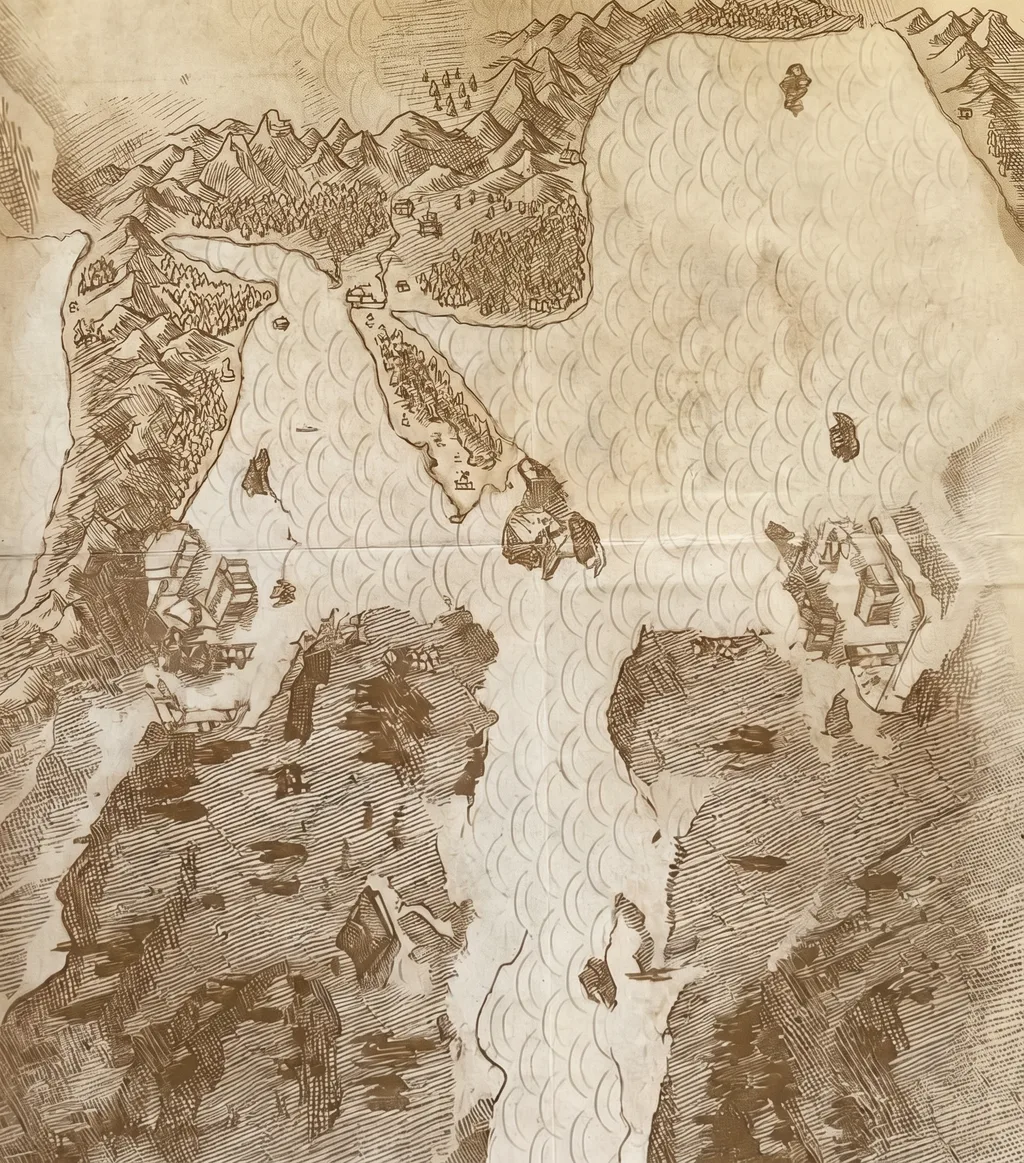
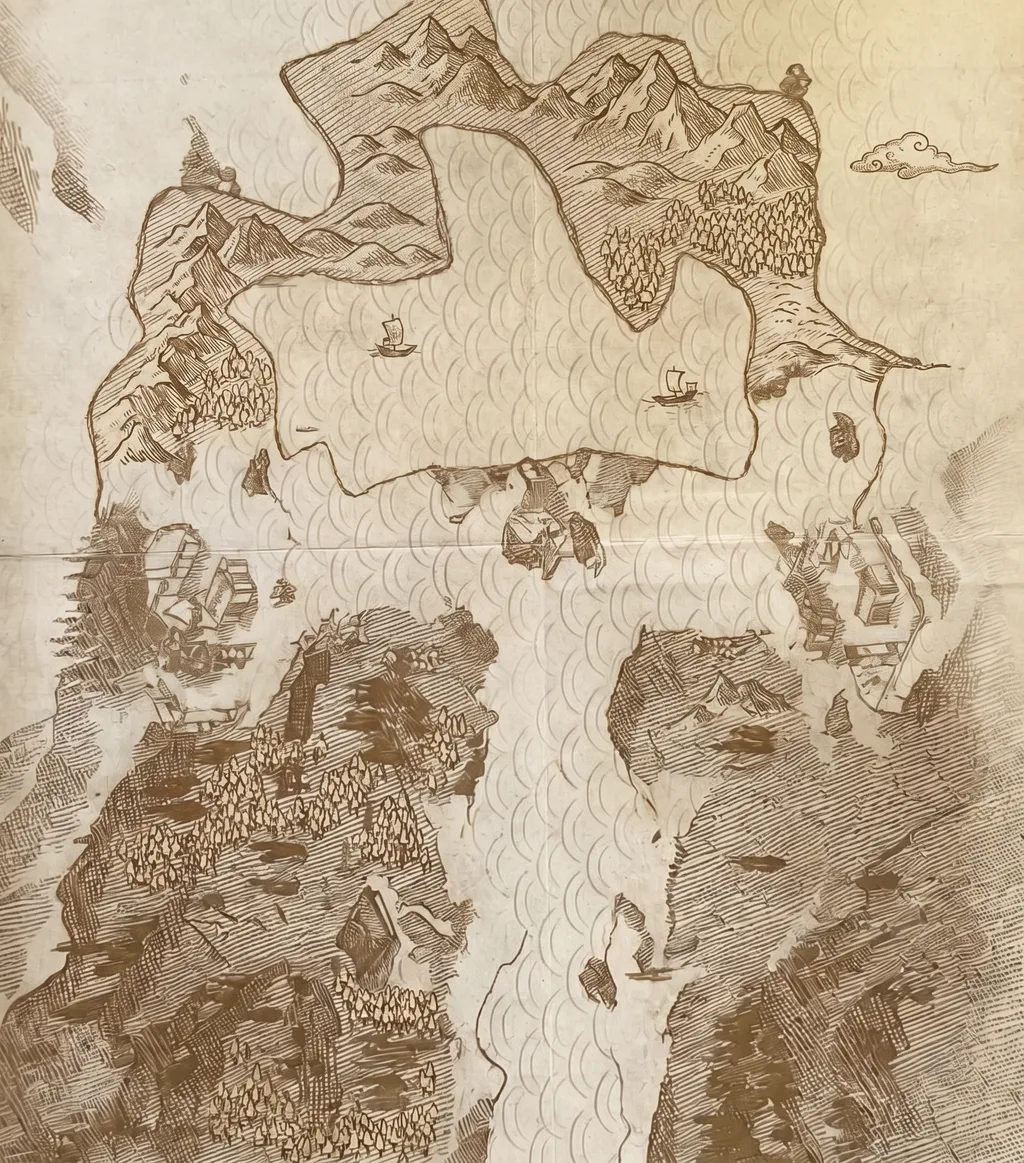
feat(terrain): commit land/sea control + fix domain-warp striping (#50)
* feat(terrain): commit land/sea control + fix domain-warp striping

Adds a fal-free `gen:map-control <mapId>` CLI that renders the deterministic
flat green/blue land-sea control image to a committed asset, so it is readily
available + regenerable without spending fal credits. Ships rivers-control.png.

Fixes a striping bug: sharp's `blur` promotes a raw 1-channel buffer to 3
channels, which the code then read back as 1 channel — aliasing the mask into
horizontal stripes (and feeding the domain warp a wrong displacement field).
Force single channel via `toColourspace('b-w')` before every raw read; smooth
the displacement field. Adds a no-striping regression guard to masks.test.

* feat(terrain): regenerate rivers background from the fixed warp pipeline

Re-renders rivers.webp with the corrected (un-striped) domain warp so the shipped
background and the committed control image come from the same pipeline.

---------

diff --git a/packages/terrain/src/mapControlCli.ts b/packages/terrain/src/mapControlCli.ts
@@ -1,0 +1,52 @@
+import { mkdirSync, readFileSync, writeFileSync } from "node:fs";
+import { dirname } from "node:path";
+import { fileURLToPath } from "node:url";
+import { getMap } from "@sengoku-jidai/engine";
+import { renderControl } from "./composite.js";
+import { renderLandMask } from "./masks.js";
+import { mapControlPath, mapSvgPath } from "./mapSources.js";
+import { loadMapProfile } from "./mapProfile.js";
+import { outputHeightForViewBox } from "./mapPipeline.js";
+
+/**
+ * Render the flat land/sea control image for a map and write it to a committed asset. This is
+ * the deterministic input the edit model receives — fal-free (no API key, no cost), so the
+ * control is always readily available in the repo and regenerable when the warp/profile changes.
+ */
+async function main(): Promise<void> {
+  const mapId = process.argv[2];
+  if (!mapId) {
+    throw new Error("usage: pnpm --filter @sengoku-jidai/terrain gen:map-control <mapId>");
+  }
+  const profile = loadMapProfile(fileURLToPath(new URL("../profiles/map.json", import.meta.url)));
+  const { base } = profile;
+  const svgMarkup = readFileSync(mapSvgPath(mapId), "utf8");
+  const width = base.outputSize.width;
+  const height = outputHeightForViewBox(svgMarkup, width);
+
+  const landMask = await renderLandMask({
+    svgMarkup,
+    map: getMap(mapId),
+    width,
+    height,
+    organicSigma: base.organicSigma,
+    coastWarp: base.coastWarp
+  });
+  const control = await renderControl({
+    landMask,
+    landColor: base.landColor,
+    seaColor: base.seaColor,
+    width,
+    height
+  });
+
+  const outPath = mapControlPath(mapId);
+  mkdirSync(dirname(outPath), { recursive: true });
+  writeFileSync(outPath, control);
+  console.log(`[terrain] control written: ${outPath}`);
+}
+
+main().catch((err) => {
+  console.error(`[terrain] ${err instanceof Error ? err.message : String(err)}`);
+  process.exitCode = 1;
+});

diff --git a/packages/terrain/test/masks.test.ts b/packages/terrain/test/masks.test.ts
@@ -39,15 +39,33 @@ describe("renderLandMask", () => {
       coastWarp: { amplitude: 30, scale: 0.01, seed: 7 }
     });
 
-    const mask = await sharp(landMask).greyscale().raw().toBuffer();
+    const { data, info } = await sharp(landMask)
+      .greyscale()
+      .raw()
+      .toBuffer({ resolveWithObject: true });
     let white = 0;
     let black = 0;
-    for (const v of mask) {
+    for (const v of data) {
       if (v > 200) white += 1;
       else if (v < 50) black += 1;
     }
-    expect(white + black).toBe(mask.length); // still strictly binary after warp
-    expect(white / mask.length).toBeGreaterThan(0.3); // both land and sea survive the warp
-    expect(black / mask.length).toBeGreaterThan(0.1);
+    expect(white + black).toBe(data.length); // still strictly binary after warp
+    expect(white / data.length).toBeGreaterThan(0.3); // both land and sea survive the warp
+    expect(black / data.length).toBeGreaterThan(0.1);
+
+    // No striping: a column crosses the coastline only a few times, not once per few rows.
+    // (Regression guard — a blur step that returns 3 channels read as 1 aliases into stripes.)
+    let maxFlips = 0;
+    for (const x of [40, 128, 210]) {
+      let prev: boolean | null = null;
+      let flips = 0;
+      for (let y = 0; y < info.height; y++) {
+        const land = data[y * info.width + x]! > 127;
+        if (prev !== null && land !== prev) flips += 1;
+        prev = land;
+      }
+      maxFlips = Math.max(maxFlips, flips);
+    }
+    expect(maxFlips).toBeLessThan(20); // clean: single digits; striped: hundreds
   });
 });

diff --git a/packages/terrain/src/masks.ts b/packages/terrain/src/masks.ts
@@ -2,20 +2,26 @@ import type { MapDefinition } from "@sengoku-jidai/engine";
 import sharp from "sharp";
 import { prepBoardSvgMarkup, tileColorMap } from "./controlImage.js";
 
-/** Low-frequency fractal-noise field (single channel, mean ~128) used to domain-warp the
- *  coastline so it reads as a natural irregular shore rather than rounded hexes. */
-async function turbulence(
+/** Smooth low-frequency noise field (single channel, mean ~128) used to domain-warp the
+ *  coastline so it reads as a natural irregular shore rather than rounded hexes. The field is
+ *  blurred so the displacement varies smoothly between neighbouring pixels — without that, the
+ *  nearest-neighbour resample aliases the high-frequency noise into stripes along the boundary;
+ *  `normalise` restores the contrast the blur removes so the warp keeps its full amplitude. */
+async function displacementField(
   width: number,
   height: number,
   baseFrequency: number,
   seed: number
 ): Promise<Buffer> {
   const svg = `<svg xmlns="http://www.w3.org/2000/svg" width="${width}" height="${height}">
-    <filter id="t"><feTurbulence type="fractalNoise" baseFrequency="${baseFrequency}" numOctaves="3" seed="${seed}" stitchTiles="stitch"/></filter>
+    <filter id="t"><feTurbulence type="fractalNoise" baseFrequency="${baseFrequency}" numOctaves="2" seed="${seed}" stitchTiles="stitch"/></filter>
     <rect width="100%" height="100%" filter="url(#t)"/></svg>`;
   return sharp(Buffer.from(svg))
     .resize(width, height, { fit: "fill" })
     .greyscale()
+    .blur(12)
+    .normalise()
+    .toColourspace("b-w") // force single channel: blur promotes raw input to 3 channels
     .raw()
     .toBuffer();
 }
@@ -49,15 +55,15 @@ export async function renderLandMask(args: {
   const greyPipe = sharp(Buffer.from(markup)).resize(width, height, { fit: "fill" }).greyscale();
 
   // Binary source: white land (incl. background), black sea.
-  let mask = await greyPipe.threshold(128).raw().toBuffer();
+  let mask = await greyPipe.threshold(128).toColourspace("b-w").raw().toBuffer();
 
   if (coastWarp && coastWarp.amplitude > 0) {
     // Domain warp: resample the binary mask through a smooth low-frequency noise vector field.
     // Because the displacement is smooth, whole regions translate coherently — the hex boundary
     // bends into organic coastlines while thin features (rivers) stay connected. `amplitude` is
     // the max displacement in pixels; `scale` is the base frequency (smaller = larger bays).
-    const nx = await turbulence(width, height, coastWarp.scale, coastWarp.seed);
-    const ny = await turbulence(width, height, coastWarp.scale, coastWarp.seed + 101);
+    const nx = await displacementField(width, height, coastWarp.scale, coastWarp.seed);
+    const ny = await displacementField(width, height, coastWarp.scale, coastWarp.seed + 101);
     const amp = coastWarp.amplitude;
     const warped = Buffer.alloc(width * height);
     for (let y = 0; y < height; y++) {
@@ -81,6 +87,7 @@ export async function renderLandMask(args: {
   if (organicSigma > 0) {
     mask = await sharp(mask, { raw: { width, height, channels: 1 } })
       .blur(organicSigma)
+      .toColourspace("b-w") // force single channel: blur promotes raw input to 3 channels
       .raw()
       .toBuffer();
   }

diff --git a/packages/terrain/test/mapSources.test.ts b/packages/terrain/test/mapSources.test.ts
@@ -1,6 +1,6 @@
 import { describe, expect, it } from "vitest";
 import { existsSync } from "node:fs";
-import { mapSvgPath } from "../src/mapSources.js";
+import { mapControlPath, mapSvgPath } from "../src/mapSources.js";
 
 describe("mapSvgPath", () => {
   it("resolves the rivers map SVG to an existing file", () => {
@@ -11,5 +11,11 @@ describe("mapSvgPath", () => {
 
   it("throws on an unknown map id", () => {
     expect(() => mapSvgPath("nope")).toThrow(/unknown map/i);
+  });
+});
+
+describe("mapControlPath", () => {
+  it("points at the committed control asset for a map", () => {
+    expect(mapControlPath("rivers").endsWith("assets/controls/rivers-control.png")).toBe(true);
   });
 });

diff --git a/packages/terrain/src/mapSources.ts b/packages/terrain/src/mapSources.ts
@@ -20,3 +20,9 @@ export function mapSvgPath(mapId: string): string {
   }
   return repoRoot + rel;
 }
+
+/** Committed control-image asset path for a map — the flat land/sea image fed to the edit
+ *  model. Generated (fal-free) by the `gen:map-control` CLI. */
+export function mapControlPath(mapId: string): string {
+  return fileURLToPath(new URL(`../assets/controls/${mapId}-control.png`, import.meta.url));
+}